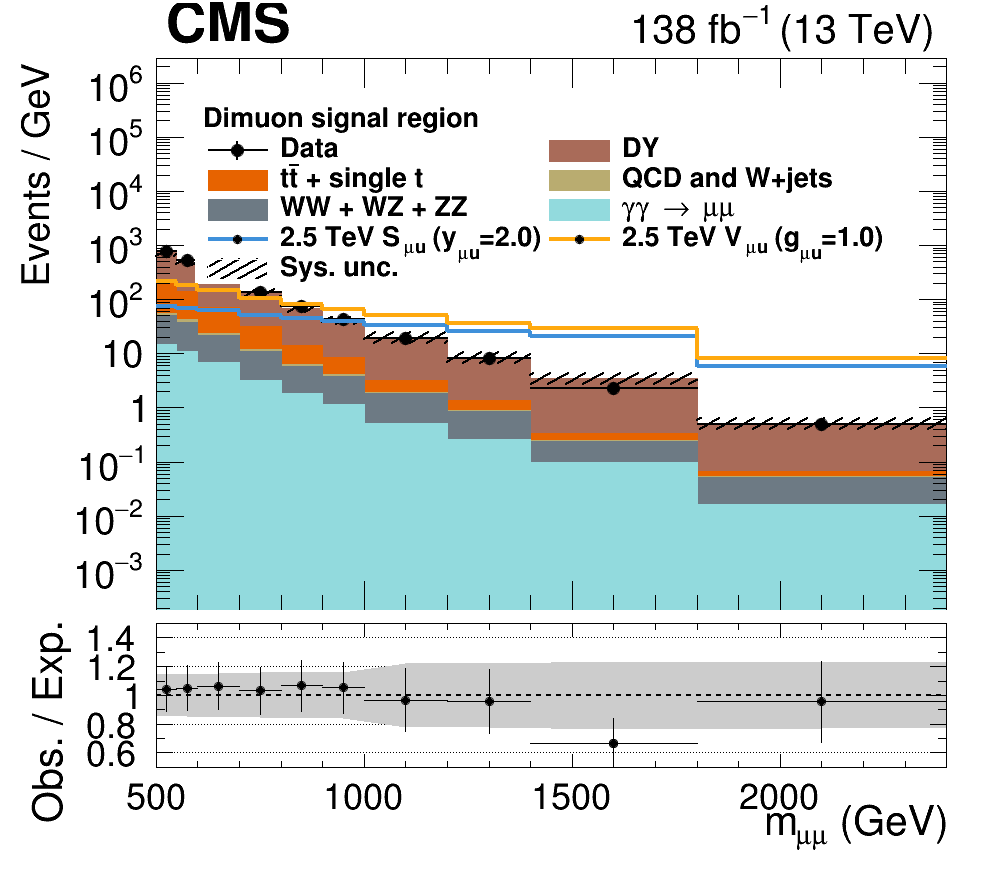
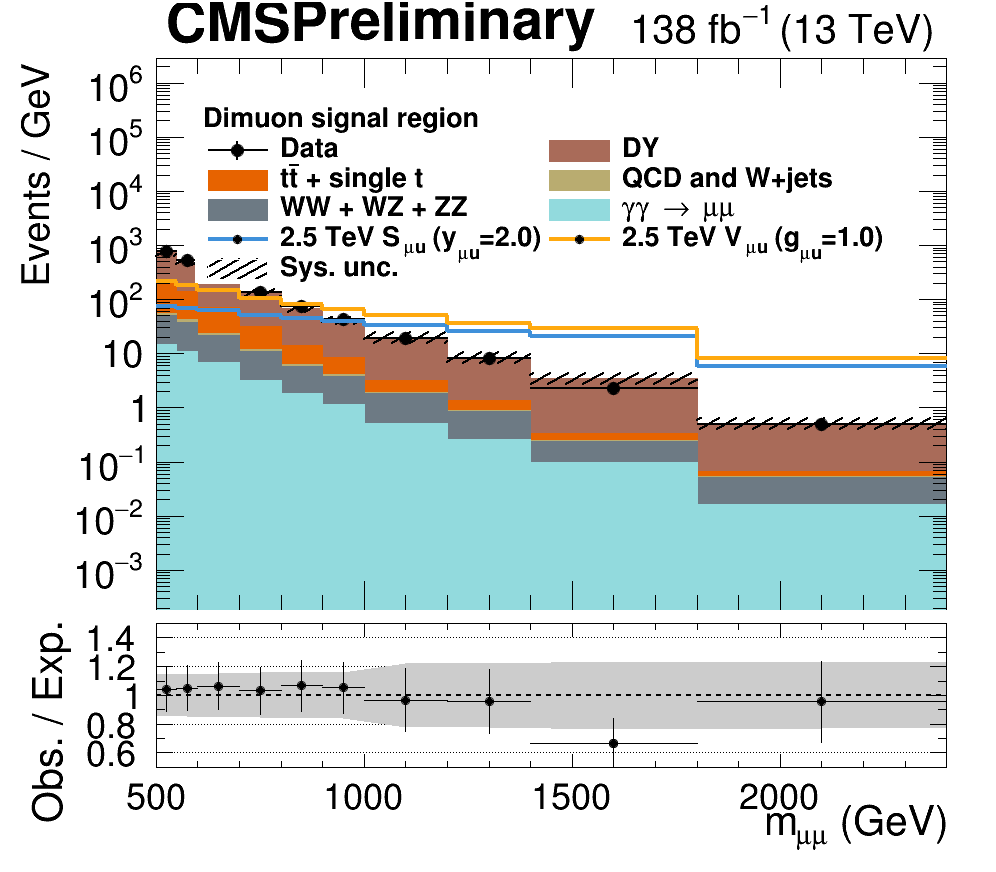
prelim check

Changed region(s): [[0.2801, 0.0, 0.5914, 0.0619]]

diff --git a/plots/CMS_lumi.C b/plots/CMS_lumi.C
@@ -152,18 +152,20 @@ CMS_lumi( TPad* pad, int iPeriod, int iPosX )
       latex.SetTextFont(cmsTextFont);
       latex.SetTextSize(cmsTextSize*t);
       latex.SetTextAlign(align_);
-      if(draw_CMS) latex.DrawLatex(posX_-0.03, posY_+0.09, cmsText);
+      if(draw_CMS) latex.DrawLatex(posX_-0.03, posY_+0.09, cmsText+extraText);
       if( writeExtraText ) 
         {
+	  
           latex.SetTextFont(extraTextFont);
           latex.SetTextAlign(align_);
           latex.SetTextSize(extraTextSize*t);
-          latex.DrawLatex(posX_-0.03, posY_+0.09+cmsTextSize*t, extraText);
+          latex.DrawLatex(posX_-0.03, posY_+0.09, extraText);
         }
     }
     }
   else if( writeExtraText )
     {
+	printf("writeExtraText");
       if( iPosX==0) 
     {
       posX_ =   l +  relPosX*(1-l-r);
